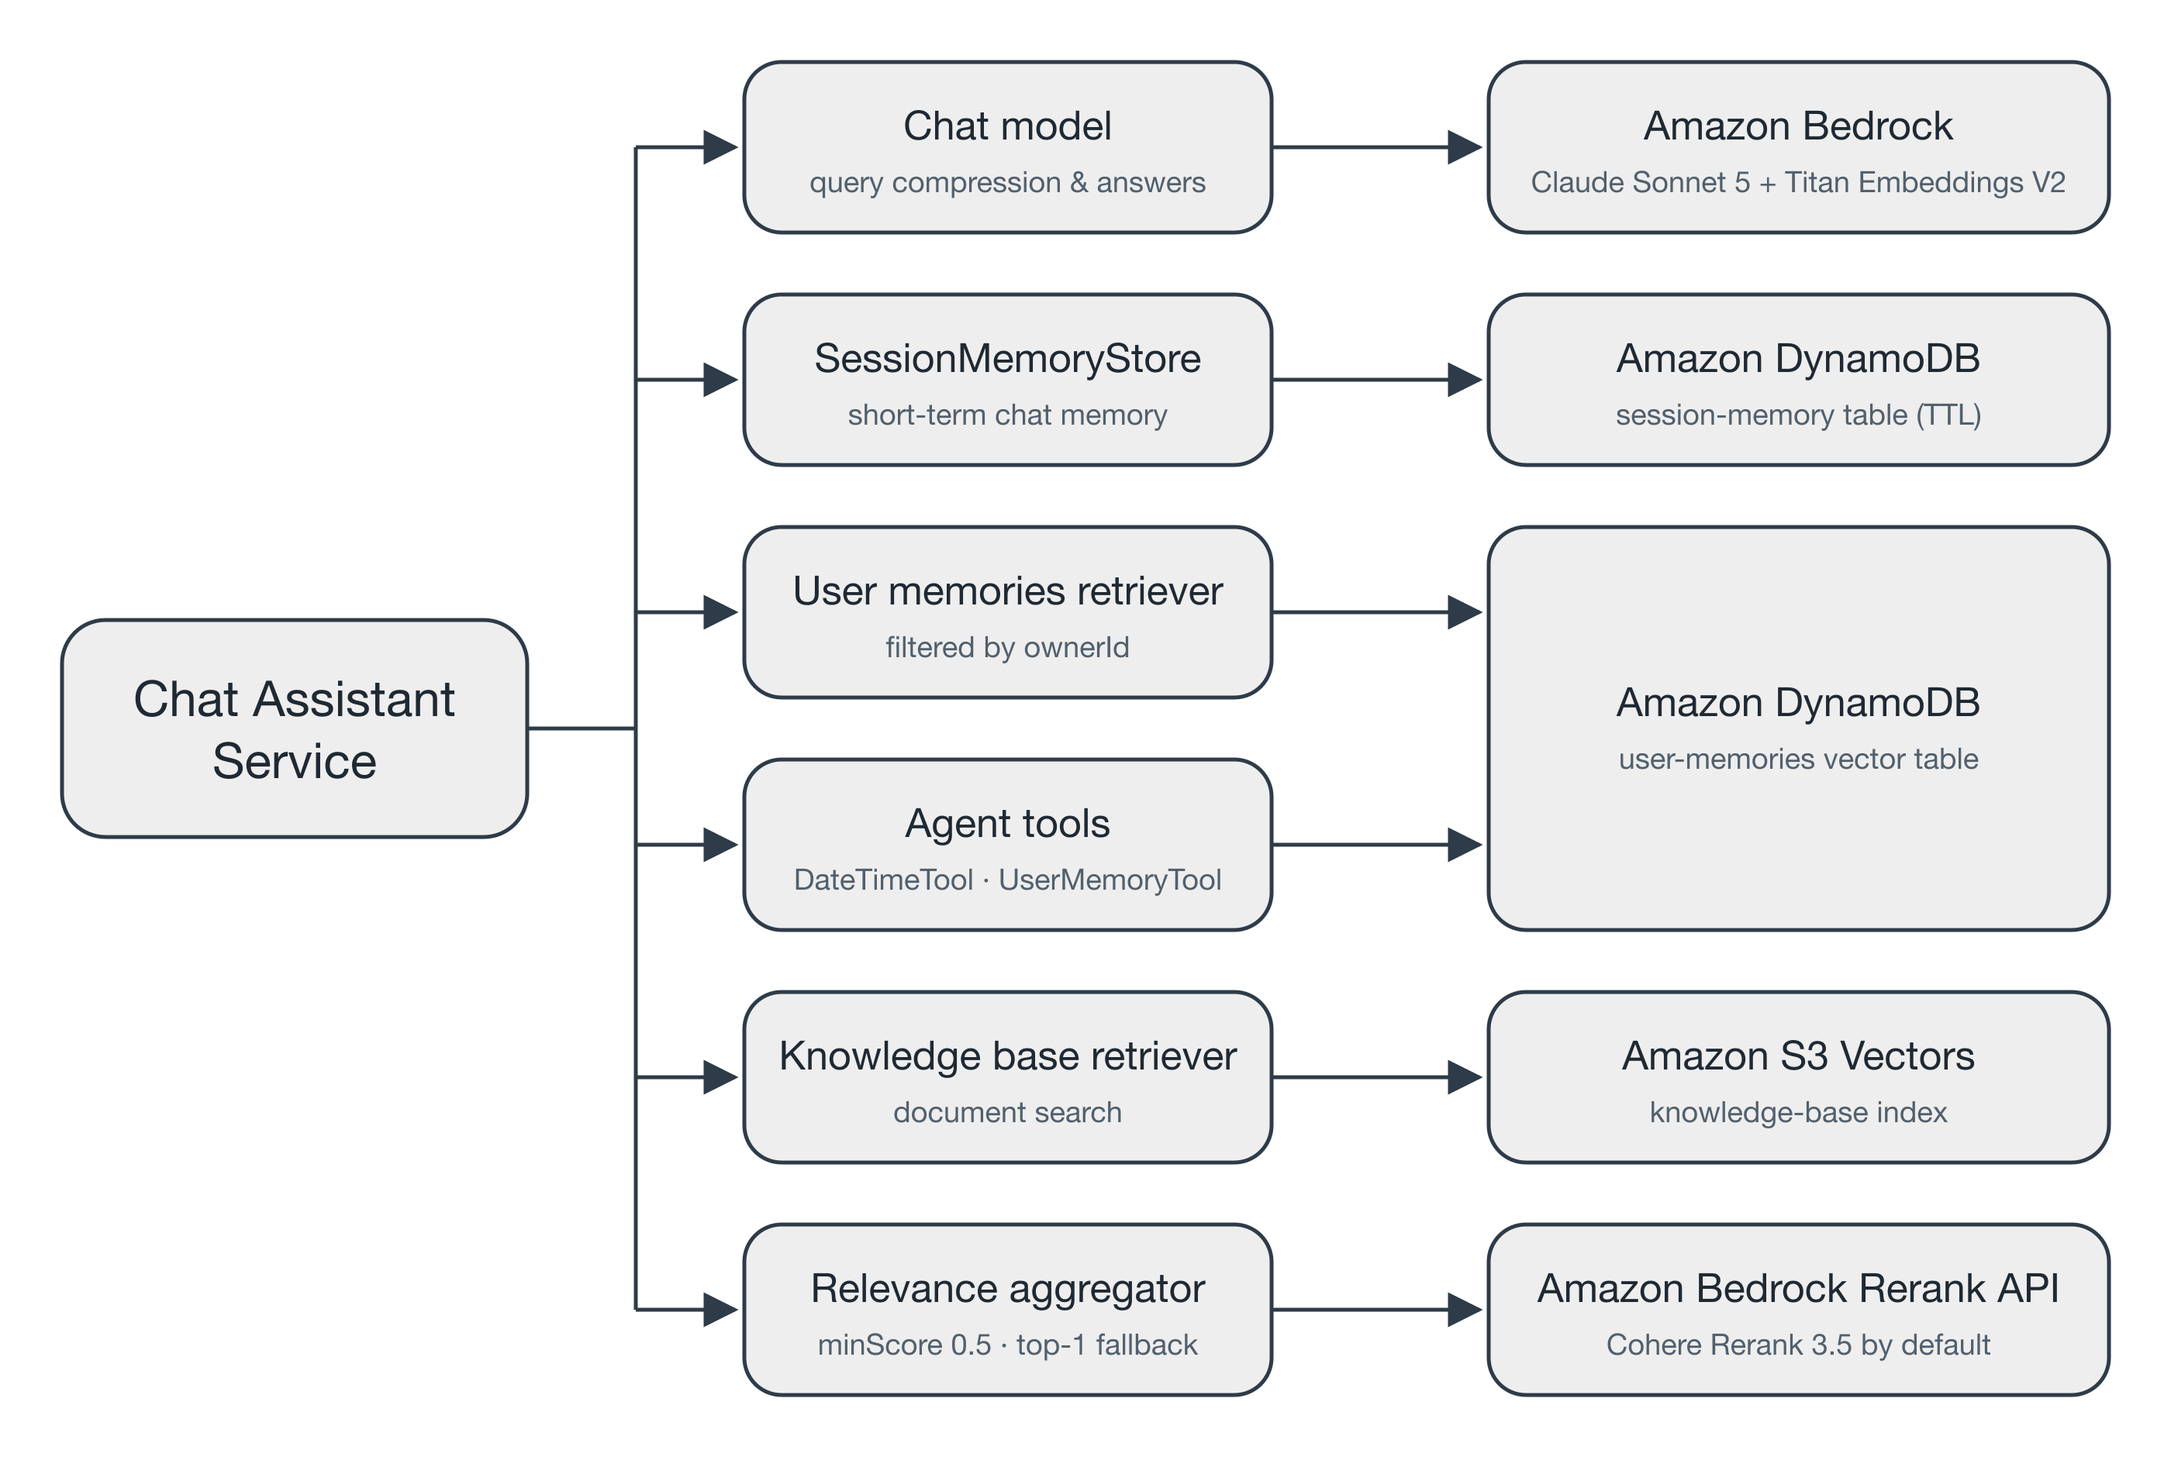
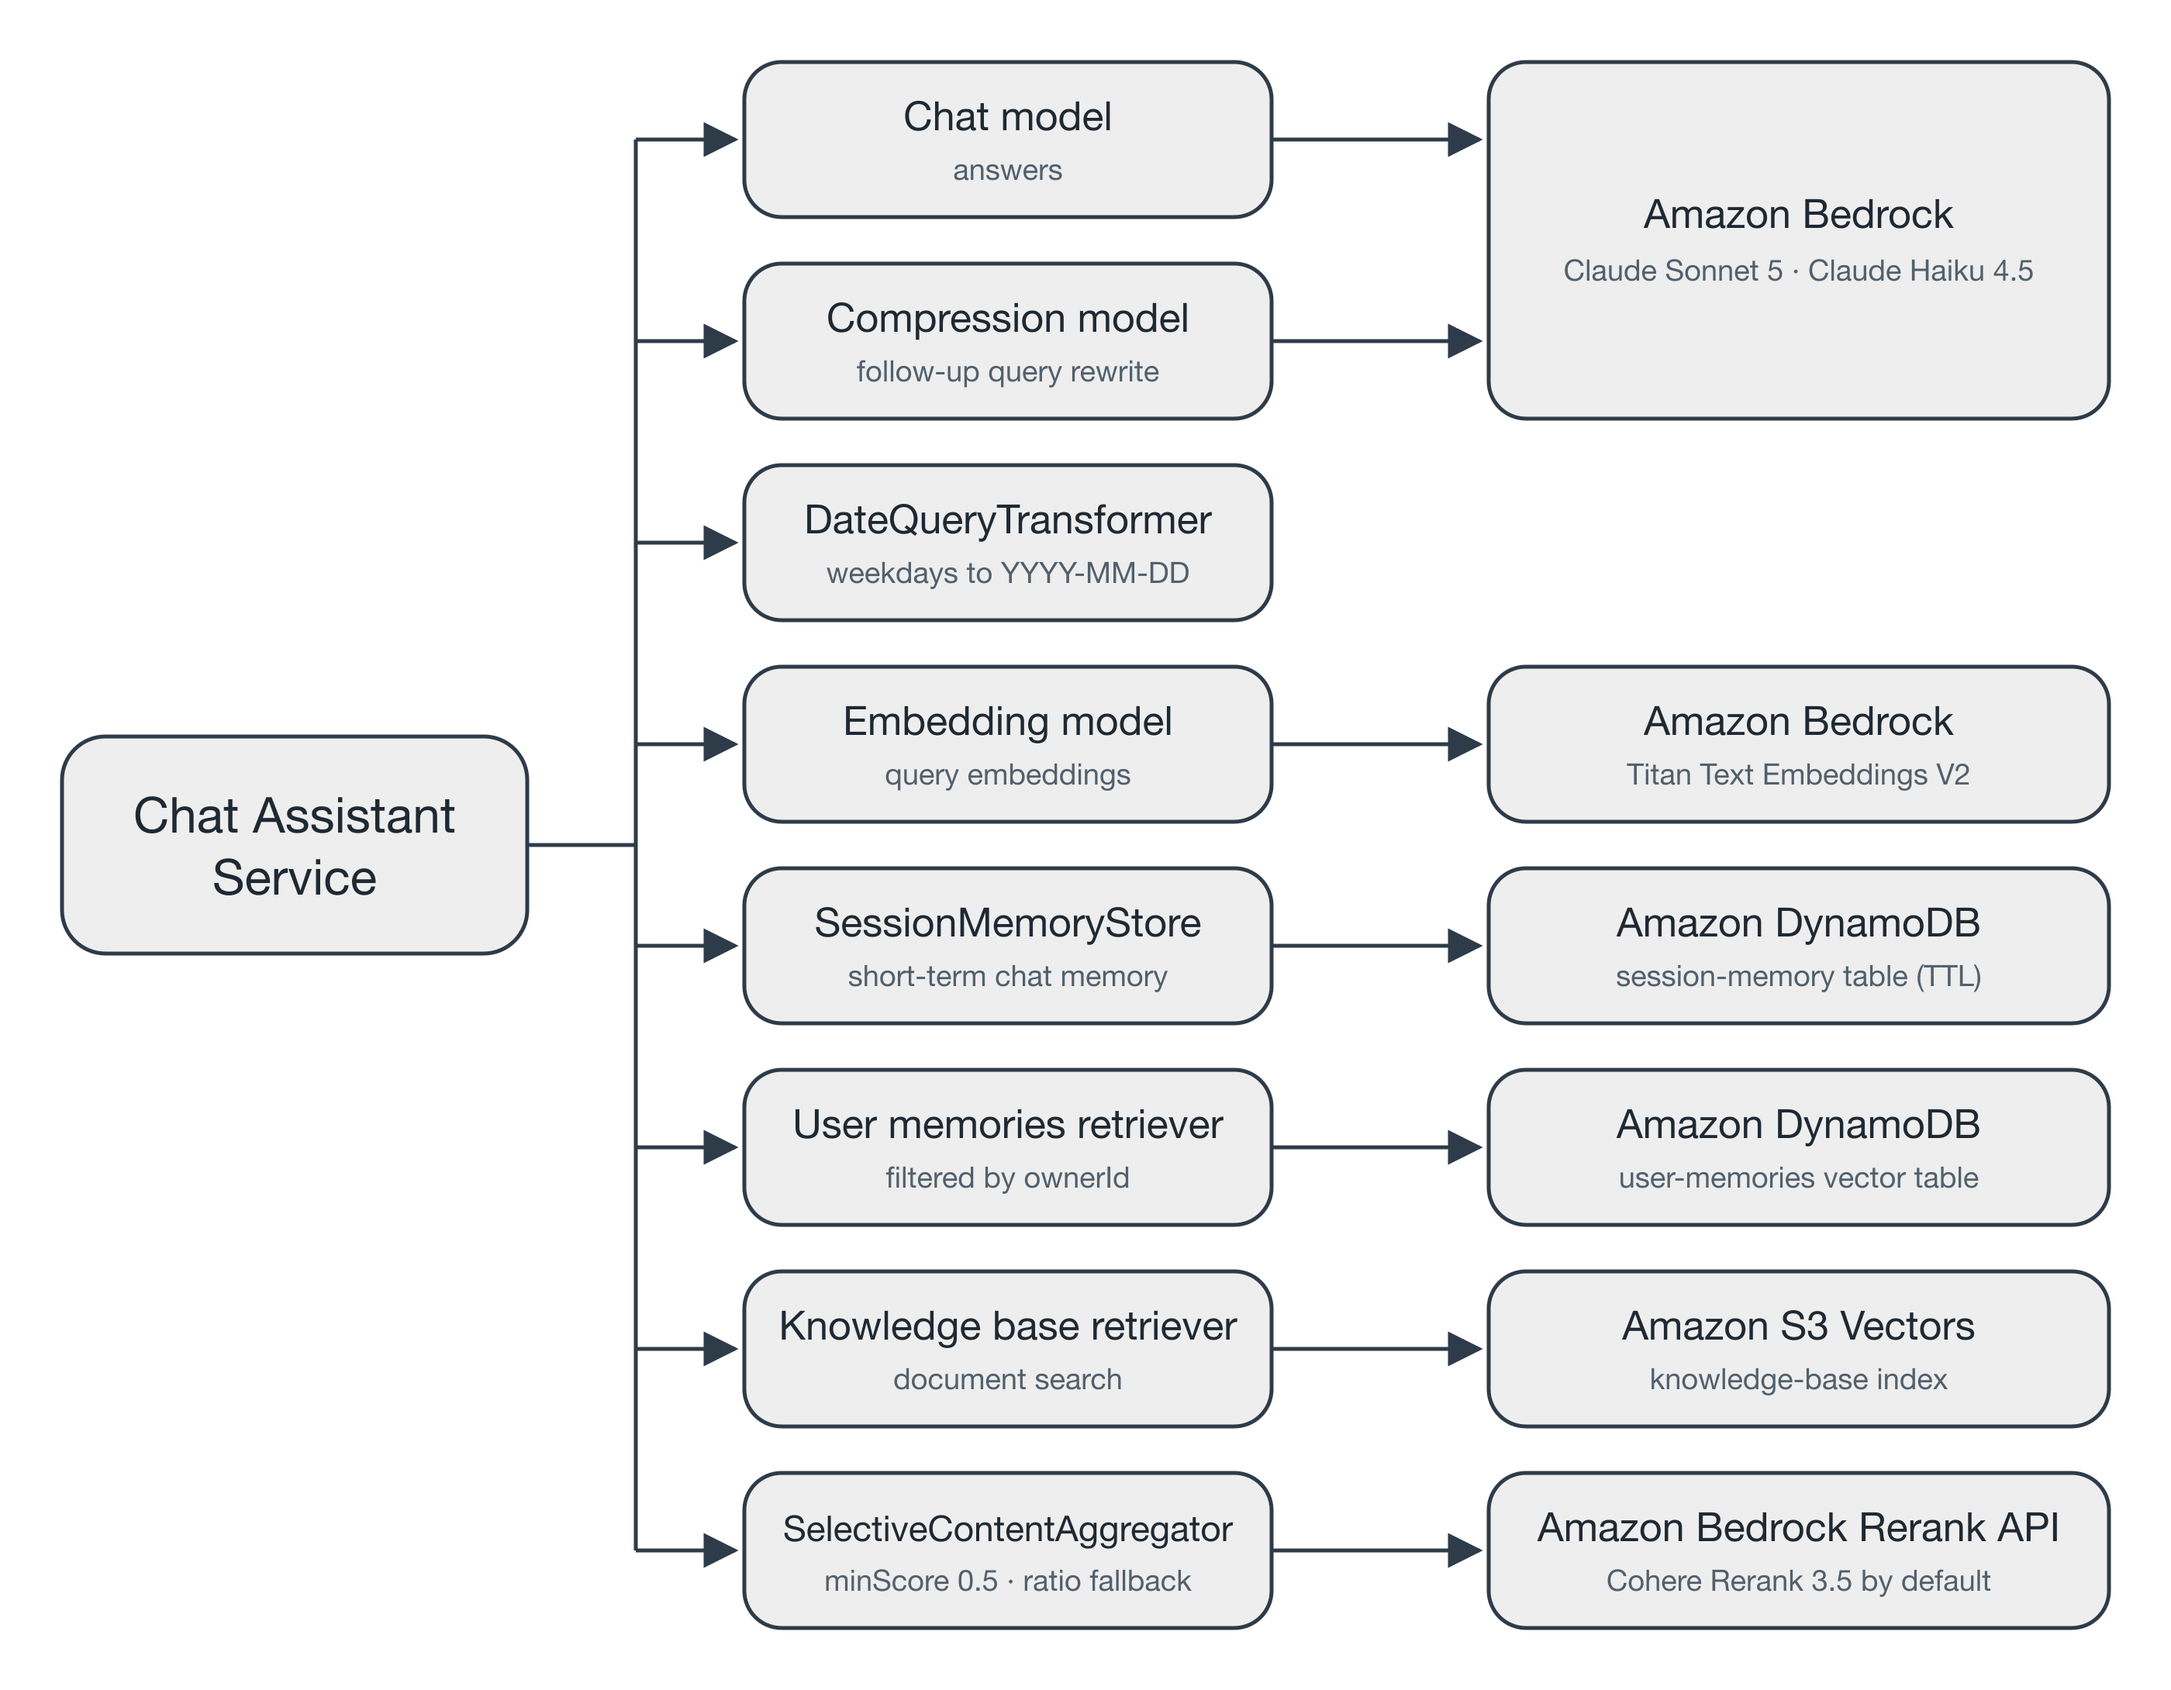
Updating README and diagrams

diff --git a/README.md b/README.md
@@ -58,6 +58,7 @@ This project demonstrates how to create a [J.A.R.V.I.S](https://en.wikipedia.org
 | `application_prefix`           | Prefix used for naming AWS resources (Lambda function, IAM role, artifacts bucket, etc.). |
 | `bedrock_chat_model_id`        | Amazon Bedrock global inference profile for the chat model. Optional; defaults to `global.anthropic.claude-sonnet-5`. |
 | `bedrock_chat_max_tokens`      | Maximum output tokens for the chat model. Optional; defaults to `4096`.                |
+| `bedrock_compression_model_id` | Amazon Bedrock global inference profile for the model that rewrites follow-up questions into standalone queries before retrieval. Optional; defaults to `global.anthropic.claude-haiku-4-5-20251001-v1:0`. |
 | `bedrock_rerank_model_id`      | Amazon Bedrock re-ranking model that re-ranks retrieved memories and knowledge-base content. Optional; defaults to `cohere.rerank-v3-5:0`. See [Re-ranking Model](#re-ranking-model). |
 | `bedrock_rerank_region`        | AWS Region where the re-ranking model is invoked. Optional; defaults to the Region the Lambda is deployed to. See [Re-ranking Model](#re-ranking-model). |
 | `knowledge_base_bucket_name`   | Name of the S3 bucket used to upload knowledge base documents.                         |
@@ -80,7 +81,7 @@ No manual steps are required. Terraform provisions the plain **users** and **ses
 Terraform provisions the S3 Vectors bucket and index. To add documents to the knowledge base, upload PDF files to the `ingest/` folder of the knowledge base bucket. An EventBridge rule invokes the Lambda every minute to embed new files into S3 Vectors, then moves each file to `processed/` on success or `failed/` on error.
 
 #### Amazon Bedrock Model Access
-The assistant calls three models on Amazon Bedrock: Claude Sonnet 5 for chat, Amazon Titan Text Embeddings V2 for embeddings, and Cohere Rerank 3.5 for re-ranking. Amazon models are available without any setup. Anthropic and Cohere models are sold through AWS Marketplace, so each one must be enabled once per AWS account before the Lambda can call it. Do this before your first request to the skill.
+The assistant calls four models on Amazon Bedrock: Claude Sonnet 5 for chat, Claude Haiku 4.5 for query compression, Amazon Titan Text Embeddings V2 for embeddings, and Cohere Rerank 3.5 for re-ranking. Amazon models are available without any setup. Anthropic and Cohere models are sold through AWS Marketplace, so each one must be enabled once per AWS account before the Lambda can call it. Do this before your first request to the skill.
 
 Amazon Bedrock enables a Marketplace model automatically the first time it is called, but only when the caller has the `aws-marketplace:Subscribe`, `aws-marketplace:Unsubscribe`, and `aws-marketplace:ViewSubscriptions` permissions. The Lambda's IAM role deliberately does not have them, so until a model is enabled, the Lambda's calls to it fail with a "Model access is denied" error that mentions these actions. Once a model is enabled, calling it needs no Marketplace permissions.
 
@@ -90,11 +91,12 @@ Before you start, make sure you have:
 - A valid payment method on the AWS account for AWS Marketplace purchases.
 - If the account belongs to an AWS Organization, service control policies that allow AWS Marketplace subscriptions and use of these models. Otherwise, ask your administrator to enable them.
 
-Enable each model with the values below. If you change `bedrock_chat_model_id`, use its foundation model ID, without the `global.` inference profile prefix. If you switch the re-ranking model to an Amazon model, skip it.
+Enable each model with the values below. If you change `bedrock_chat_model_id` or `bedrock_compression_model_id`, use its foundation model ID, without the `global.` inference profile prefix. If you switch the re-ranking model to an Amazon model, skip it.
 
 | Model             | `MODEL_ID`                  | `REGION`                                                        |
 |:------------------|:----------------------------|:----------------------------------------------------------------|
 | Claude Sonnet 5   | `anthropic.claude-sonnet-5` | The Region you deploy to                                        |
+| Claude Haiku 4.5  | `anthropic.claude-haiku-4-5-20251001-v1:0` | The Region you deploy to                         |
 | Cohere Rerank 3.5 | `cohere.rerank-v3-5:0`      | `bedrock_rerank_region`, or the Region you deploy to if it is empty |
 
 1. **Submit Anthropic's first-time use form (Claude only).** Anthropic requires use case details once per account, or once in the organization's management account, whose submission member accounts inherit. Opt-in Regions require it again. Open any Anthropic model in the model catalog of the Amazon Bedrock console and submit the form when prompted. Access is granted as soon as the form is submitted.
@@ -129,7 +131,7 @@ Re-ranking goes through the Amazon Bedrock Rerank API, which works with any re-r
 
 If the model you choose is not available in the Region you deploy to, set `bedrock_rerank_region` to the nearest Region that offers it, for example `eu-central-1` when deploying to `eu-west-1`. The Lambda then calls the re-ranking model in that Region while every other resource stays in the Region you deploy to. Each re-ranking call then crosses Regions, which adds latency to every request that retrieves memories or knowledge-base content, and the query and retrieved content are processed in that Region. Check the [supported Regions](https://docs.aws.amazon.com/bedrock/latest/userguide/models-regions.html) before deploying, as the list may change.
 
-Each re-ranking model scores relevance on its own scale. The assistant keeps only content scored at or above a minimum score (`minScore` in `ChatAssistantService`), so retune it after switching models.
+Each re-ranking model scores relevance on its own scale. The assistant keeps content scored at or above a minimum score (`minScore` in `ChatAssistantService`). When nothing reaches it, the assistant keeps the top result plus any result scored close to it (`fallbackRatio` and `fallbackMinScore`). Retune these values after switching models.
 
 #### Installation & Deployment
 Once configured, deploy everything using:
@@ -210,7 +212,7 @@ On the next request, the assistant creates your user record again from your Alex
 This architecture uses an Alexa skill written in Java and hosted as an AWS Lambda function. The Lambda implements a stream handler that processes user requests and responses, using DynamoDB (plain tables for user records and short-term session memory, plus a vector table for long-term user memories) as its backend layer. A second Lambda function, triggered by the vector table's DynamoDB stream, removes long-term memories that a newer memory replaces.
 
 ![Chat Assistant Service](./assets/chat-assistant-service.png)
-As part of the stream handler implementation, it uses a Chat Assistant Service that leverages LangChain4J to manage interactions with the memory stores. This service implements context engineering, ensuring that conversations are enriched with relevant user memories retrieved from DynamoDB and knowledge-base content retrieved from S3 Vectors, re-ranked through the Amazon Bedrock Rerank API (Cohere Rerank 3.5 by default) so only the relevant results reach the prompt. Claude Sonnet 5 on Amazon Bedrock is the LLM used to process and generate responses, and Amazon Titan Text Embeddings V2 on Amazon Bedrock generates the embeddings for the knowledge base and user memories.
+As part of the stream handler implementation, it uses a Chat Assistant Service that leverages LangChain4J to manage interactions with the memory stores. This service implements context engineering, ensuring that conversations are enriched with relevant user memories retrieved from DynamoDB and knowledge-base content retrieved from S3 Vectors, re-ranked through the Amazon Bedrock Rerank API (Cohere Rerank 3.5 by default) so only the relevant results reach the prompt. Claude Sonnet 5 on Amazon Bedrock is the LLM used to process and generate responses, Claude Haiku 4.5 rewrites follow-up questions into standalone queries before retrieval, and Amazon Titan Text Embeddings V2 on Amazon Bedrock generates the embeddings for the knowledge base and user memories.
 
 ## Known Issues
 - Alexa Developer Console may require manual linking if credentials are not fully synchronized.
